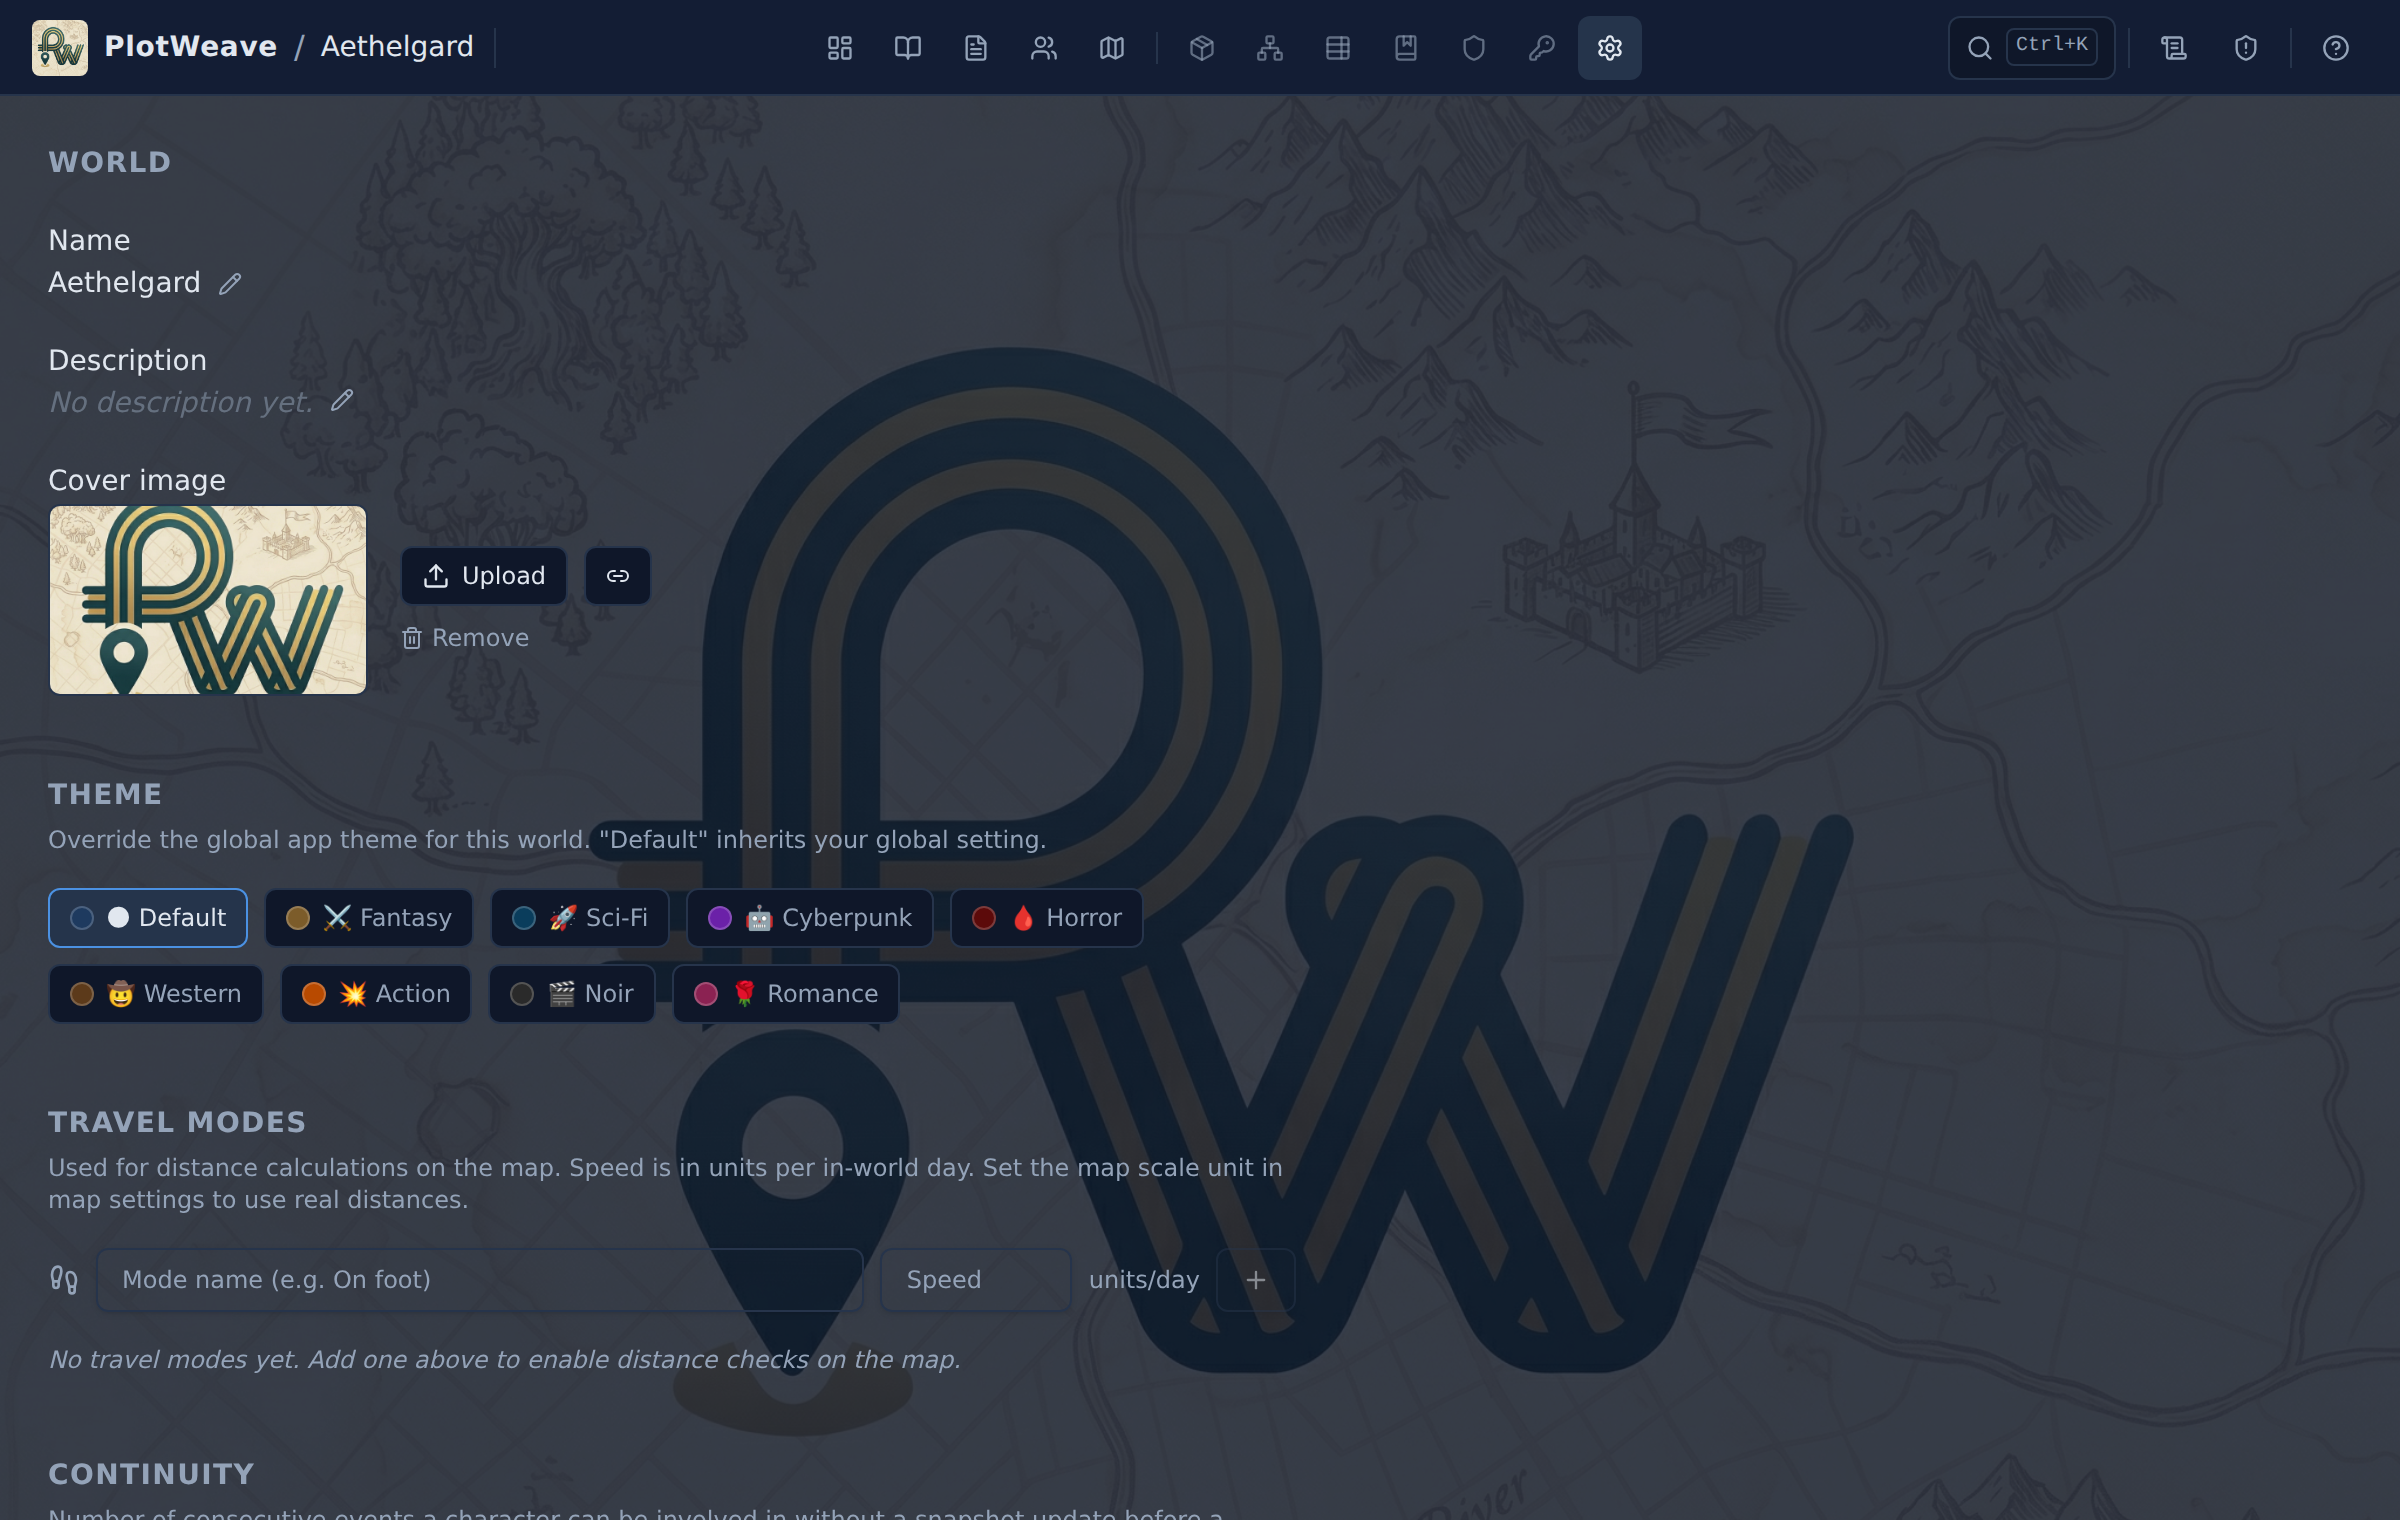
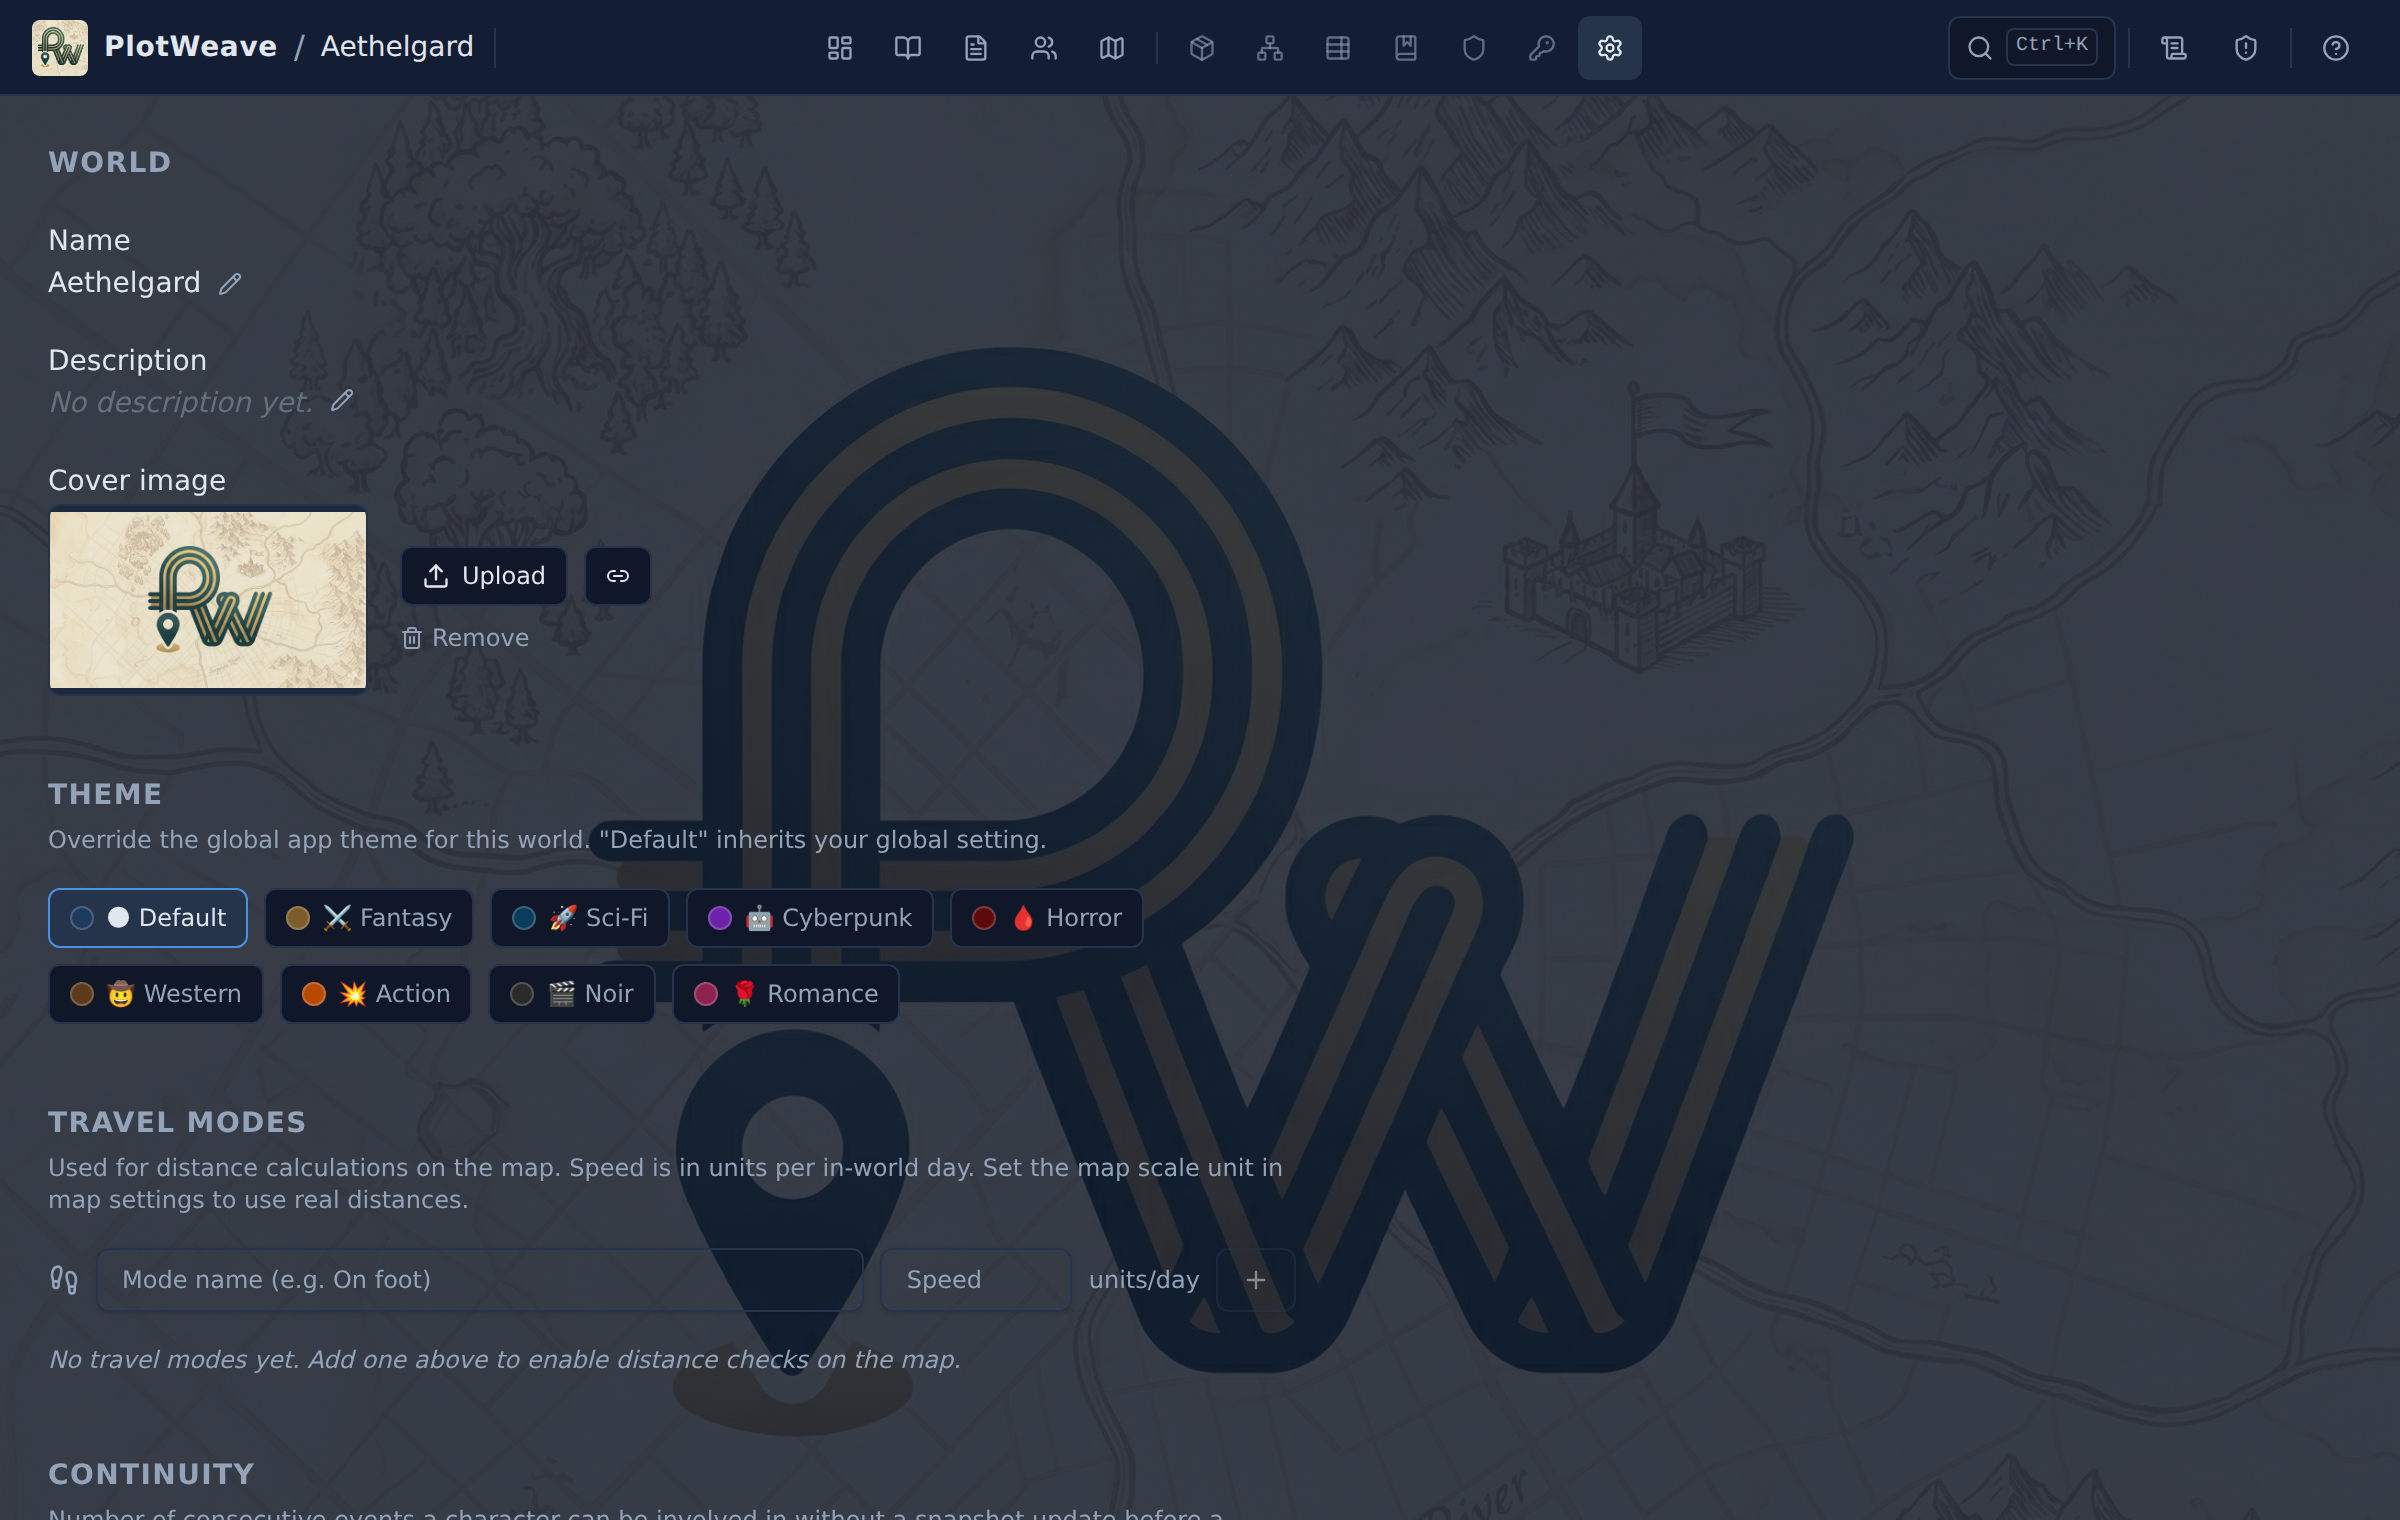
Fit world cover images instead of cropping them
The cover previews used object-cover, which fills the box and crops
off the edges of images whose aspect ratio doesn't match. Switch the
settings preview, world-card thumbnail, and dashboard cover to
object-contain over a muted background so the whole image is always
visible, whatever its shape.

Extends the e2e test to assert the settings preview fits (contain)
and refreshes the settings screenshot with a wide cover to show it.

Claude-Session: https://claude.ai/code/session_012HJuZ3q12imk2q9iq8d945

Changed region(s): [[0.0312, 0.3092, 0.1562, 0.4638]]

diff --git a/e2e/worldCover.spec.ts b/e2e/worldCover.spec.ts
@@ -21,8 +21,11 @@ test.describe('World cover image', () => {
     await page.getByPlaceholder('https://…/image.png').fill(imageUrl)
     await page.getByRole('button', { name: 'Add linked image' }).click()
 
-    // The settings preview now renders the linked cover.
-    await expect(page.locator(`img[src="${imageUrl}"]`).first()).toBeVisible()
+    // The settings preview now renders the linked cover, fitted (not cropped)
+    // into its box so nothing is cut off.
+    const preview = page.locator(`img[src="${imageUrl}"]`).first()
+    await expect(preview).toBeVisible()
+    await expect(preview).toHaveCSS('object-fit', 'contain')
 
     // Removing clears it, then we re-add so the card assertion has something to show.
     await page.getByRole('button', { name: 'Remove' }).click()

diff --git a/src/features/worlds/WorldSettingsView.tsx b/src/features/worlds/WorldSettingsView.tsx
@@ -223,7 +223,7 @@ export default function WorldSettingsView() {
             <PortraitImage
               imageId={world?.coverImageId}
               alt={world?.name ? `${world.name} cover` : 'World cover'}
-              className="h-24 w-40 rounded-md border border-[hsl(var(--border))] object-cover"
+              className="h-24 w-40 rounded-md border border-[hsl(var(--border))] bg-[hsl(var(--muted))] object-contain"
               fallbackClassName="h-24 w-40 rounded-md border border-[hsl(var(--border))]"
               fallbackIcon={ImageIcon}
             />

diff --git a/src/features/worlds/WorldDashboardView.tsx b/src/features/worlds/WorldDashboardView.tsx
@@ -270,7 +270,7 @@ export default function WorldDashboardView() {
           <PortraitImage
             imageId={world.coverImageId}
             alt=""
-            className="h-16 w-24 shrink-0 rounded-md border border-[hsl(var(--border))] object-cover"
+            className="h-16 w-24 shrink-0 rounded-md border border-[hsl(var(--border))] bg-[hsl(var(--muted))] object-contain"
             fallbackClassName="h-16 w-24 shrink-0 rounded-md border border-[hsl(var(--border))]"
           />
         )}

diff --git a/src/features/worlds/WorldCard.tsx b/src/features/worlds/WorldCard.tsx
@@ -65,7 +65,7 @@ export function WorldCard({ world }: WorldCardProps) {
           <PortraitImage
             imageId={world.coverImageId}
             alt=""
-            className="h-9 w-9 shrink-0 rounded-md object-cover"
+            className="h-9 w-9 shrink-0 rounded-md bg-[hsl(var(--muted))] object-contain"
             fallbackClassName="h-9 w-9 shrink-0 rounded-md"
             fallbackIcon={Globe}
           />
